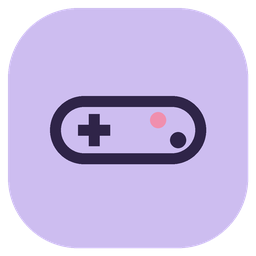
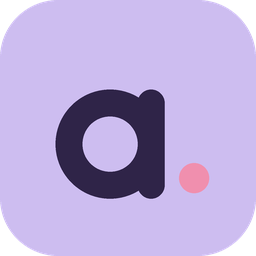
New mark: a lowercase "a" and a pink dot, the sister of Deckhand's "d."
A plum "a" (a ring and a stem) with a pink dot on the lavender tile, replacing
the gamepad. Used for the app icon (es-app/assets/arcadia.svg, which is also
the AppImage's icon), the window icon and both boot screens; all regenerated
by tools/make_splash.py.

Claude-Session: https://claude.ai/code/session_01S8WzwTVJgRdKoez6xvvZCn

Changed region(s): [[0.1875, 0.375, 0.8438, 0.7812], [0.0, 0.0, 1.0, 1.0], [0.3438, 0.3438, 0.625, 0.375]]

diff --git a/tools/make_splash.py b/tools/make_splash.py
@@ -28,13 +28,12 @@ def word_paths(text: str, size: float, tracking: float) -> tuple[str, float]:
     return " ".join(parts), x - tracking
 
 
-# The mark: a lavender tile with a gamepad drawn into it in plum, the same shape as the console cards.
-MARK = '''  <g transform="translate(530 140)">
-    <rect x="0" y="0" width="220" height="220" rx="64" fill="#cdbdf0"/>
-    <path d="M58 84h104a30 30 0 0 1 0 60h-14l-14-12H74l-14 12H58a30 30 0 0 1 0-60z" fill="none" stroke="#2f2448" stroke-width="10" stroke-linejoin="round"/>
-    <path d="M70 114h28M84 100v28" stroke="#2f2448" stroke-width="10" stroke-linecap="round"/>
-    <circle cx="140" cy="106" r="7" fill="#f08fae"/>
-    <circle cx="158" cy="122" r="7" fill="#2f2448"/>
+# The mark (es-app/assets/arcadia.svg): a lowercase "a" and a pink dot on a lavender tile, the sister of Deckhand's "d.".
+MARK = '''  <g transform="translate(530 140) scale(0.859375)">
+    <rect width="256" height="256" rx="58" fill="#cdbdf0"/>
+    <circle cx="110" cy="144" r="41" fill="none" stroke="#2f2448" stroke-width="27"/>
+    <path d="M151 103v82" stroke="#2f2448" stroke-width="27" stroke-linecap="round"/>
+    <circle cx="194" cy="178" r="15" fill="#f08fae"/>
   </g>'''
 
 
@@ -71,15 +70,18 @@ def window_icon(path: str = "resources/graphics/window_icon_256.png") -> None:
     W = 256 * s
     img = Image.new("RGBA", (W, W), (0, 0, 0, 0))
     d = ImageDraw.Draw(img)
-    d.rounded_rectangle([8 * s, 8 * s, 248 * s, 248 * s], radius=70 * s, fill=(0xCD, 0xBD, 0xF0, 255))
+    d.rounded_rectangle([0, 0, W - 1, W - 1], radius=58 * s, fill=(0xCD, 0xBD, 0xF0, 255))
     ink = (0x2F, 0x24, 0x48, 255)
-    w = 11 * s
-    # gamepad outline
-    d.rounded_rectangle([50 * s, 96 * s, 206 * s, 164 * s], radius=34 * s, outline=ink, width=w)
-    d.line([(78 * s, 130 * s), (110 * s, 130 * s)], fill=ink, width=w)
-    d.line([(94 * s, 114 * s), (94 * s, 146 * s)], fill=ink, width=w)
-    for (cx, cy), c in (((158, 120), (0xF0, 0x8F, 0xAE, 255)), ((178, 140), ink)):
-        d.ellipse([(cx - 8) * s, (cy - 8) * s, (cx + 8) * s, (cy + 8) * s], fill=c)
+    w = 27 * s
+    # the bowl of the "a": a ring
+    r = 41 * s + w // 2
+    d.ellipse([110 * s - r, 144 * s - r, 110 * s + r, 144 * s + r], outline=ink, width=w)
+    # its stem, with round ends
+    d.line([(151 * s, 103 * s), (151 * s, 185 * s)], fill=ink, width=w)
+    for y in (103, 185):
+        d.ellipse([151 * s - w // 2, y * s - w // 2, 151 * s + w // 2, y * s + w // 2], fill=ink)
+    # the dot
+    d.ellipse([(194 - 15) * s, (178 - 15) * s, (194 + 15) * s, (178 + 15) * s], fill=(0xF0, 0x8F, 0xAE, 255))
     img.resize((256, 256), Image.LANCZOS).save(path)
     print("wrote", path)
 

diff --git a/DESIGN.md b/DESIGN.md
@@ -86,7 +86,7 @@ keeps names and acronyms such as ROM, BIOS and RetroArch); other languages are s
 | Dialogs | program | a centred card: a pastel badge that says what it is about (question lavender, done mint, problem peach, removing something coral, information sky; picked from the words and the main button), the first sentence as a Fraunces title, the rest quieter below, pill buttons |
 | Notifications | program | a card at the top with the same badge beside the message, in sentence case; it slides down as it fades in. A problem says where to fix it (a missing emulator points to Setup → Emulators) |
 | Setup tools | program | a card sized to what the tool says: a spinner that becomes a tick or an exclamation mark beside the title, a status line ("Done in 40 s"), a progress bar when the tool reports one, the lines by kind (a mint tick for done, a peach mark for a problem, dots for items, rings for what's left, hints in the accent ink, short bold headings), the summary in a tinted box; Close first, Try again when it failed; up/down scrolls |
-| Boot, launch, screensaver | program | the scheme's ground; the boot screen is the lavender mark over the Fraunces wordmark with a pink progress bar (`tools/make_splash.py`, one for each scheme); the screensaver dims |
+| Boot, launch, screensaver | program | the scheme's ground; the boot screen is the mark (a plum "a" and a pink dot on a lavender tile, `es-app/assets/arcadia.svg`; the sister of Deckhand's "d.") over the Fraunces wordmark with a pink progress bar (`tools/make_splash.py`, one for each scheme); the screensaver dims |
 
 ## Controls
 
